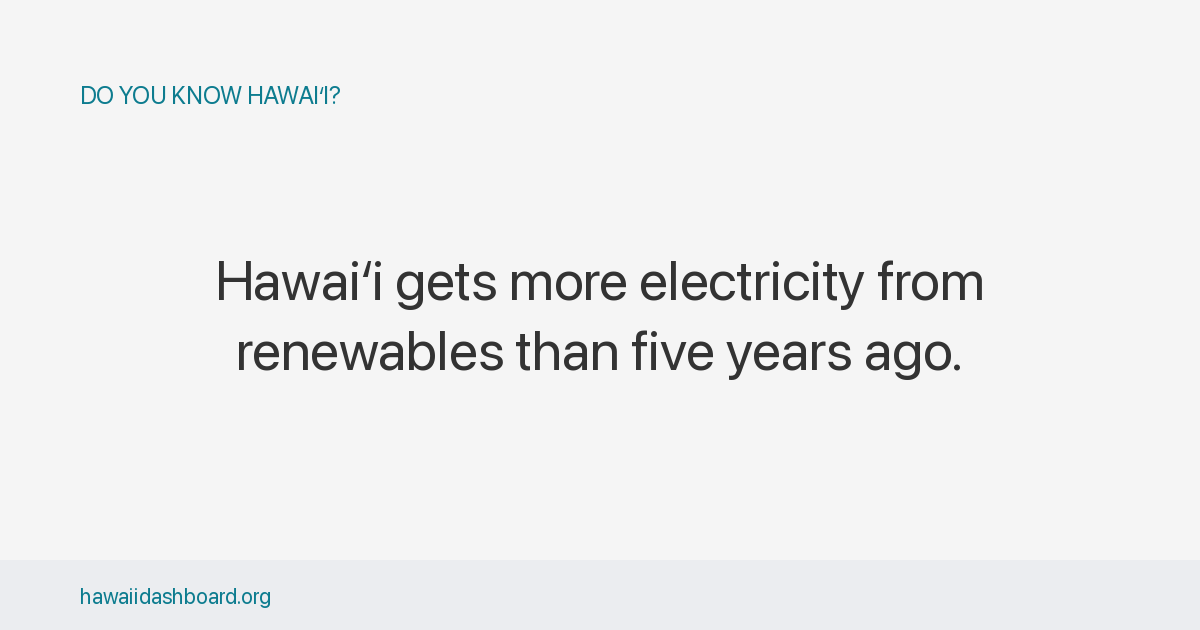
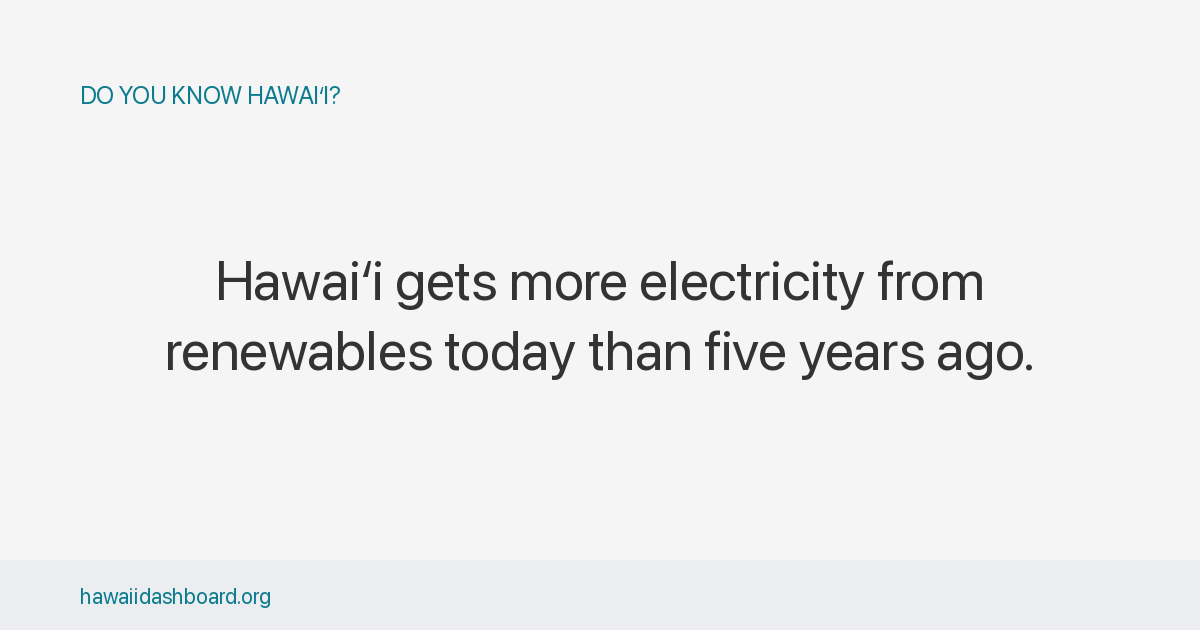
qotd: add "today" to renewables claim (q056)
"Hawaiʻi gets more electricity from renewables today than five years
ago." — the missing "today" makes the time frame read cleanly.

Updates the source in js/questions.js and regenerates the matching
/q/ redirect page + OG card.

Changed region(s): [[0.1233, 0.5127, 0.8633, 0.6032]]

diff --git a/q/renewable-electricity-has-gone-up-in-hawaii-in-the-last-five-years/index.html b/q/renewable-electricity-has-gone-up-in-hawaii-in-the-last-five-years/index.html
@@ -6,16 +6,16 @@
   <meta property="og:type" content="website">
   <meta property="og:url" content="https://hawaiidashboard.org/q/renewable-electricity-has-gone-up-in-hawaii-in-the-last-five-years/">
   <meta property="og:title" content="Do you know Hawaiʻi?">
-  <meta property="og:description" content="Hawaiʻi gets more electricity from renewables than five years ago.">
+  <meta property="og:description" content="Hawaiʻi gets more electricity from renewables today than five years ago.">
   <meta property="og:image" content="https://hawaiidashboard.org/assets/og/q/renewable-electricity-has-gone-up-in-hawaii-in-the-last-five-years.png">
   <meta property="og:image:width" content="1200">
   <meta property="og:image:height" content="630">
   <meta property="og:site_name" content="Hawaiʻi Dashboard">
   <meta name="twitter:card" content="summary_large_image">
   <meta name="twitter:title" content="Do you know Hawaiʻi?">
-  <meta name="twitter:description" content="Hawaiʻi gets more electricity from renewables than five years ago.">
+  <meta name="twitter:description" content="Hawaiʻi gets more electricity from renewables today than five years ago.">
   <meta name="twitter:image" content="https://hawaiidashboard.org/assets/og/q/renewable-electricity-has-gone-up-in-hawaii-in-the-last-five-years.png">
-  <meta name="description" content="Hawaiʻi gets more electricity from renewables than five years ago.">
+  <meta name="description" content="Hawaiʻi gets more electricity from renewables today than five years ago.">
   <link rel="canonical" href="https://hawaiidashboard.org/q/renewable-electricity-has-gone-up-in-hawaii-in-the-last-five-years/">
   <script>window.location.replace('/#q/renewable-electricity-has-gone-up-in-hawaii-in-the-last-five-years');</script>
   <meta http-equiv="refresh" content="0;url=https://hawaiidashboard.org/#q/renewable-electricity-has-gone-up-in-hawaii-in-the-last-five-years">
@@ -24,7 +24,7 @@
   <p>Redirecting to <a href="https://hawaiidashboard.org/#q/renewable-electricity-has-gone-up-in-hawaii-in-the-last-five-years">Do you know Hawaiʻi?</a>&hellip;</p>
   <article style="max-width:640px;margin:2rem auto;padding:0 1rem;font-family:-apple-system,BlinkMacSystemFont,'Segoe UI',sans-serif;color:#333;line-height:1.55;">
     <p style="color:#888;font-size:0.875rem;text-transform:uppercase;letter-spacing:0.05em;margin:0;">Do you know Hawaiʻi?</p>
-    <p style="margin:0.25rem 0 1rem;font-size:1.25rem;font-weight:600;">Hawaiʻi gets more electricity from renewables than five years ago.</p>
+    <p style="margin:0.25rem 0 1rem;font-size:1.25rem;font-weight:600;">Hawaiʻi gets more electricity from renewables today than five years ago.</p>
     <p><strong>True.</strong> Hawaiʻi's renewable share of electricity went from 15.9% to 22.1% between 2020 and 2025 (+38.9%).</p>
     <p style="margin-top:1.5rem;"><a href="/t/renewables_share_gen/">See the data &rarr;</a></p>
   </article>

diff --git a/js/questions.js b/js/questions.js
@@ -335,7 +335,7 @@ const QOTD_QUESTIONS = [
   {
     "id": "q056",
     "slug": "renewable-electricity-has-gone-up-in-hawaii-in-the-last-five-years",
-    "claim": "Hawaiʻi gets more electricity from renewables than five years ago.",
+    "claim": "Hawaiʻi gets more electricity from renewables today than five years ago.",
     "correct": true,
     "answer": "Hawaiʻi's renewable share of electricity went from 15.9% to 22.1% between 2020 and 2025 (+38.9%).",
     "chartUrl": "/t/renewables_share_gen/",
